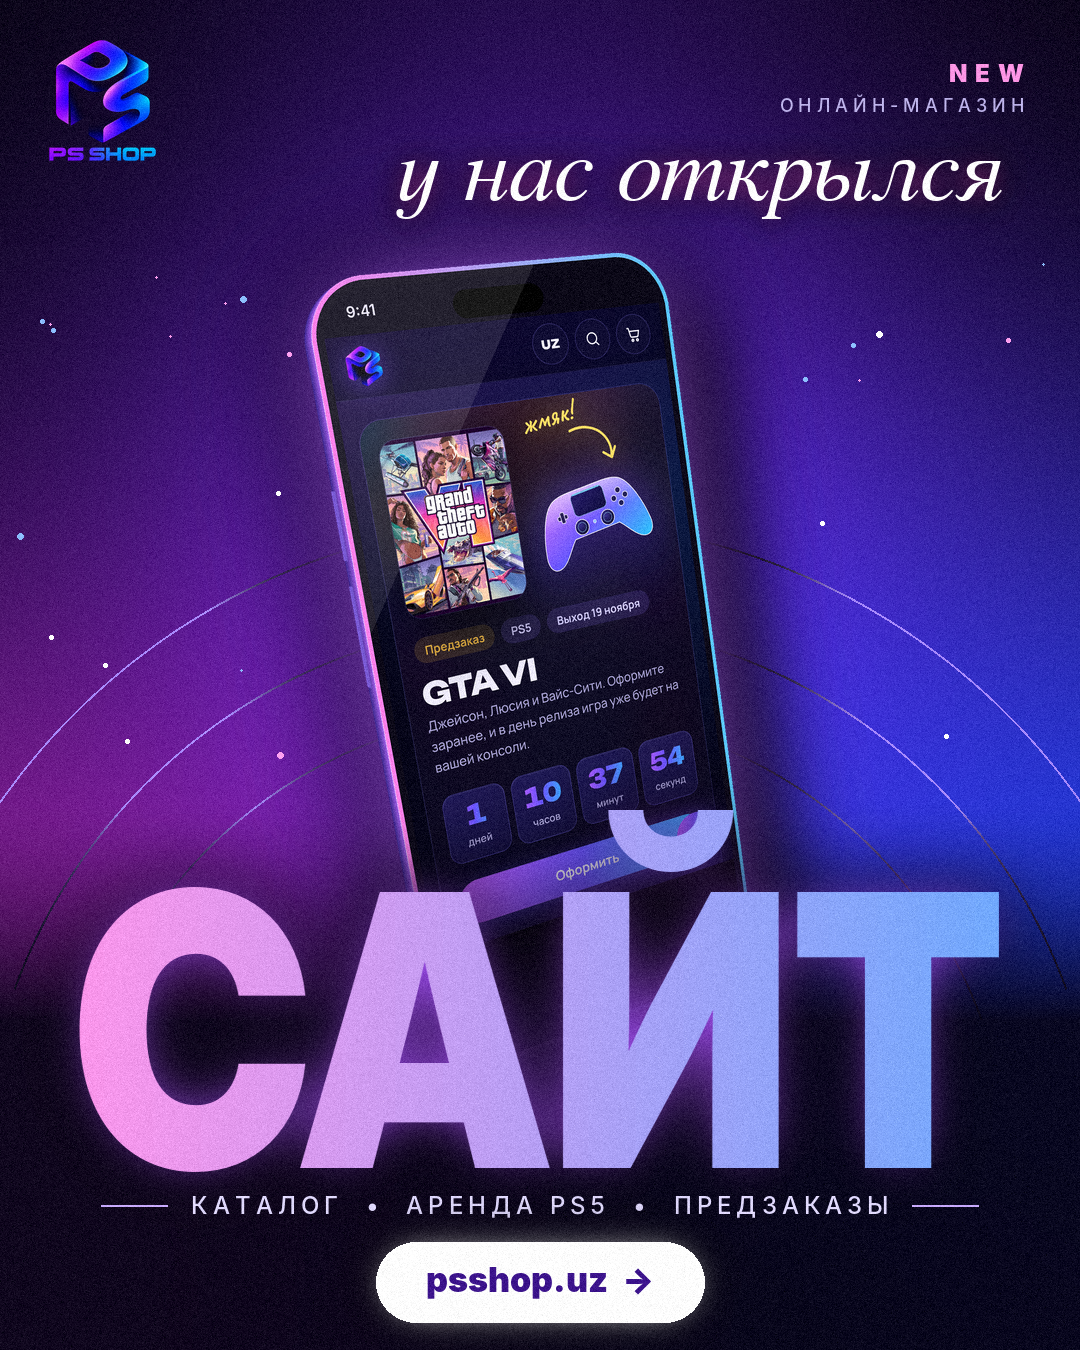
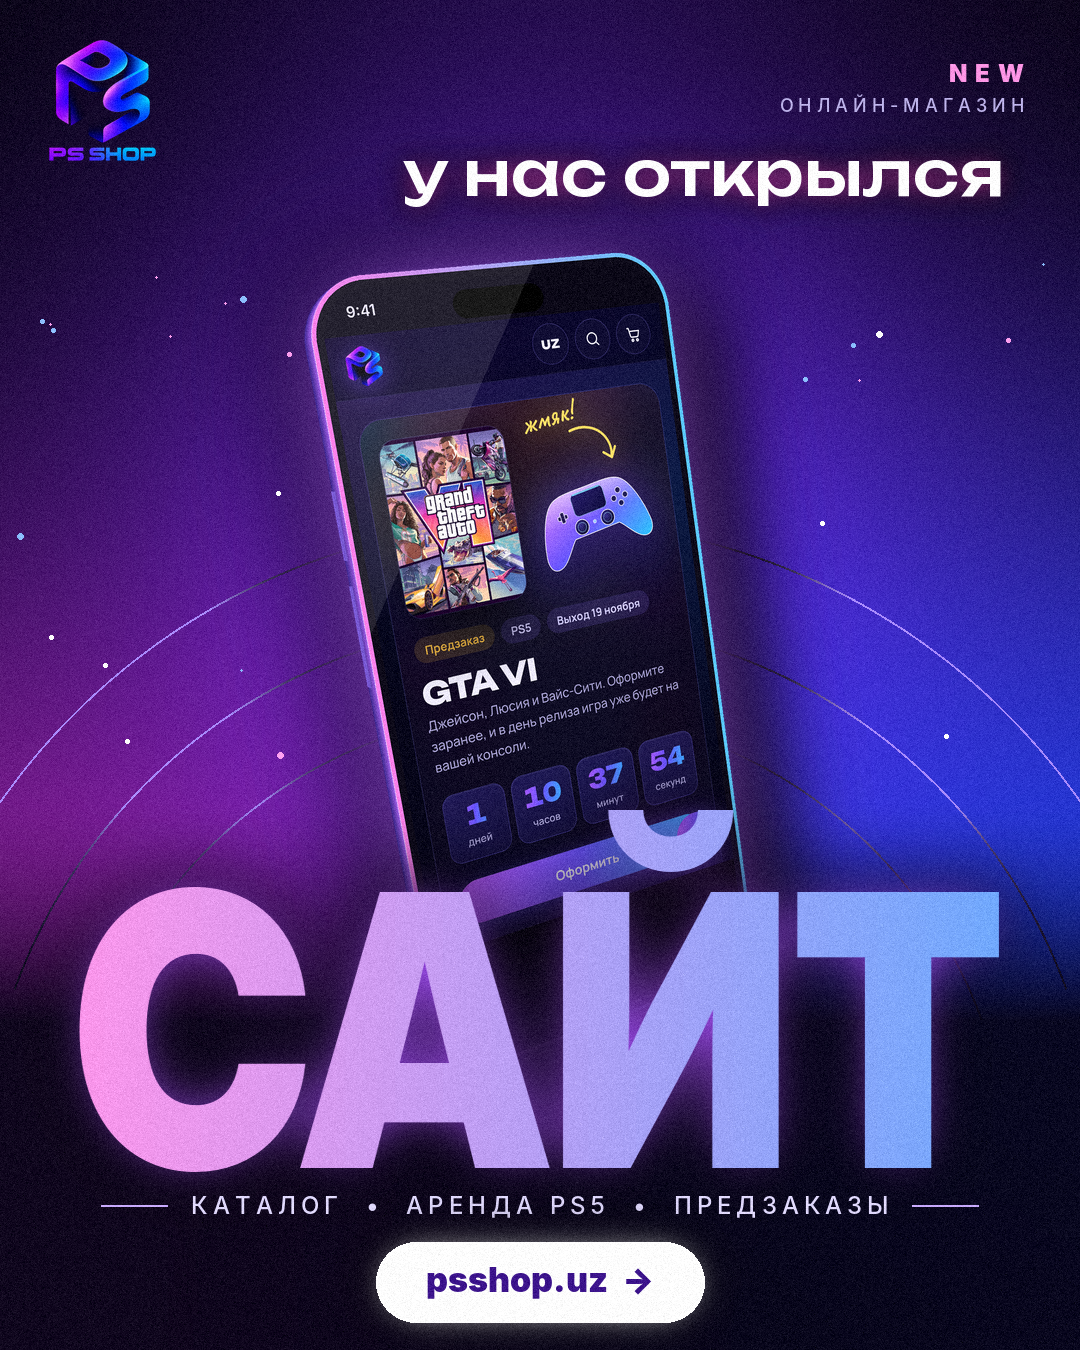
Пост «САЙТ»: строка «у нас открылся» шрифтом Unbounded, FreeSerif убран
Claude-Session: https://claude.ai/code/session_014Ko8ozEX2o5gHUgYNiyXBL

Changed region(s): [[0.3667, 0.0933, 0.9472, 0.1867]]

diff --git a/designer/scripts/post_site_phone3d.py b/designer/scripts/post_site_phone3d.py
@@ -112,7 +112,12 @@ big=grad(big,(255,150,235),(110,170,255))
 bx=(W-big.width)//2; by=800
 glow(bg,tint(big,(170,80,255)),(bx,by),30,1)
 bg.alpha_composite(big,(bx,by))
-ser=cond_text("у нас открылся",ImageFont.truetype(SERIF,92),1.0,(255,255,255,255))
+import os, sys; sys.path.insert(0,"scripts"); from psfx import font as pfont
+_k=os.environ.get("TOP_FONT","unbounded")  # шрифт строки «у нас открылся»
+_f={"freeserif":lambda:ImageFont.truetype(SERIF,92),"playfair":lambda:pfont("playfair",86,"SemiBold Italic"),
+    "cormorant":lambda:pfont("cormorant",100,"SemiBold Italic"),"unbounded":lambda:pfont("unbounded",62,"Medium"),
+    "manrope":lambda:pfont("manrope",72,"Bold")}[_k]()
+ser=cond_text("у нас открылся",_f,1.0,(255,255,255,255))
 sx,sy=W-56-ser.width,150
 glow(bg,tint(ser,(255,80,210)),(sx,sy),14,2); bg.alpha_composite(ser,(sx,sy))
 d=ImageDraw.Draw(bg)
@@ -141,4 +146,4 @@ for _ in range(45):
     if 300<x<780: continue
     d.ellipse((x-rr,y-rr,x+rr,y+rr),fill=random.choice([(255,160,240),(140,190,255),(255,255,255)])+(random.randint(60,190),))
 n=np.random.normal(0,6,(H,W,1)); out=np.clip(np.array(bg.convert("RGB")).astype(float)+n,0,255)
-Image.fromarray(out.astype("uint8")).save("output/ps_shop_site_phone3d.png"); print(by,yl)
+Image.fromarray(out.astype("uint8")).save(os.environ.get("OUT","output/ps_shop_site_phone3d.png")); print(by,yl)

diff --git a/designer/scripts/psfx.py b/designer/scripts/psfx.py
@@ -25,8 +25,7 @@ FONTS = {
     "oswald":    ("Oswald[wght].ttf", "Bold"),
     "montserrat":("Montserrat[wght].ttf", "Black"),
     # fashion-курсив
-    "serif":     ("/usr/share/fonts/truetype/freefont/FreeSerifItalic.ttf", None),
-    "playfair":  ("PlayfairDisplay-Italic[wght].ttf", "Italic"),
+        "playfair":  ("PlayfairDisplay-Italic[wght].ttf", "Italic"),
     "cormorant": ("Cormorant-Italic[wght].ttf", "Medium Italic"),
     # мелкие строки с разрядкой, кнопки
     "text":      (INTER + "Inter-Medium.otf", None),

diff --git a/designer/CLAUDE.md b/designer/CLAUDE.md
@@ -10,6 +10,7 @@
 - К каждому посту обязательно делай картинку. Перед картинкой — 3 ключевых вопроса по одному.
 - Креатив обязателен: однотипных картинок быть не должно.
 - Стиль владельца: **3D-объекты + плоский 2D-текст**. Предметы объёмные (толщина, перспектива, тени, отражения), текст плоский, чёткий, без 3D-эффектов.
+- **Шрифты:** FreeSerif Italic владельцу не нравится, не использовать. Для подзаголовка-пары владелец выбрал Unbounded (Medium, строчные).
 - **Логотип не трогать:** только слева сверху, как есть. Не делать из куба логотипа 3D-декор и героя.
 - Для темы «сайт» 3D-героем делать объёмный телефон с открытым psshop.uz (`scripts/post_site_phone3d.py`).
 - Владельцу отправлять **только итоговую картинку**. Черновики проверять в уменьшенном виде и не показывать.
@@ -17,7 +18,7 @@
 ## Структура папки
 - `assets/logo.png` — логотип PS SHOP (куб с P и S + надпись, тёмный фон).
 - `assets/covers/` — обложки и арты игр от владельца (`название-игры.jpg`). Брать картинки игр только отсюда или из присланных скринов.
-- `assets/fonts/` — шрифты с кириллицей (лицензия OFL, образцы в `specimen.png`): Unbounded, Russo One, Oswald, Montserrat, Rubik Mono One (огромные слова); Playfair Display Italic, Cormorant Italic (fashion-курсив); Manrope (мелкий текст); Press Start 2P, Rubik Glitch (ретро и глитч). Плюс системные Inter / Inter Display и FreeSerif Italic.
+- `assets/fonts/` — шрифты с кириллицей (лицензия OFL, образцы в `specimen.png`): Unbounded, Russo One, Oswald, Montserrat, Rubik Mono One (огромные слова); Playfair Display Italic, Cormorant Italic (fashion-курсив); Manrope (мелкий текст); Press Start 2P, Rubik Glitch (ретро и глитч). Плюс системные Inter / Inter Display.
 - `assets/shots/` — скриншоты psshop.uz (телефон `m_*.png`, компьютер `d_*.png`). Переснимать Playwright'ом, если сайт поменялся.
 - `scripts/psfx.py` — **общая библиотека приёмов, начинать любую картинку с неё**: `import sys; sys.path.insert(0,"scripts"); from psfx import *`.
   Шрифты `font("unbounded",200)`; фон `neon_bg()`, `diagonal_split`, `retro_grid`, `sparks`, `grain`; текст `text_img` (сжатие, разрядка), `spaced`, `lined`, `highlight`, `cta_pill`, `chroma_shift`; шапка `header()` (логотип слева сверху без изменений); 3D: `Cam`, `phone3d`, `card3d`, `box3d`, `reflection`, `shadow`, `glow`, `pocket`; проверка `check({...})` и `preview()` для самопроверки.

diff --git a/designer/journal.md b/designer/journal.md
@@ -4,7 +4,7 @@
 
 | Дата | Тема | Формат | Схема | Герой (3D) | Шрифты | Палитра | Приёмы | Скрипт | Отзыв владельца |
 |---|---|---|---|---|---|---|---|---|---|
-| 2026-11-17 | У нас открылся сайт | пост | A. Выход из слова | 3D-телефон с psshop.uz | Inter Display Black + FreeSerif Italic | тёмный неон | огромное слово, курсив-пара, строка с разрядкой и линиями, CTA-пилюля, дуги, искры | post_site_phone3d.py | «Отлично». Хочет 3D-объекты + 2D-текст; логотип не трогать |
+| 2026-11-17 | У нас открылся сайт | пост | A. Выход из слова | 3D-телефон с psshop.uz | Inter Display Black + Unbounded Medium | тёмный неон | огромное слово, строка-пара, строка с разрядкой и линиями, CTA-пилюля, дуги, искры | post_site_phone3d.py | «Отлично». Хочет 3D-объекты + 2D-текст; логотип не трогать; FreeSerif-курсив не нравится → выбрал Unbounded |
 | 2026-11-17 | У нас открылся сайт (черновик) | пост | C. Веер | скриншоты сайта пластинами | Inter Display Black + FreeSerif Italic | тёмный неон | веер, выход из слова | post_site_fan.py | понравился, но нужен телефон; кубы из логотипа — нельзя |
 | до 2026-11 | Сайт открылся | сторис | B. Слово за объектом | телефон (плоский мокап) | Inter Display Black + FreeSerif Italic | тёмный неон | ретро-сетка, стеклянные плашки, курсор | story_site_phone.py | удачная |
 | до 2026-11 | Живой таймер до релиза GTA VI | пост | B. Слово за объектом | арт игры карточкой | Inter Display Black + FreeSerif Italic | тёмный неон | fashion-пара, градиент, CTA | post_timer_fashion.py | понравилась больше всего |

diff --git a/designer/.claude/skills/psshop-telegram-posts/SKILL.md b/designer/.claude/skills/psshop-telegram-posts/SKILL.md
@@ -103,7 +103,7 @@ PNG 1080×1350 (пост) или 1080×1920 (сторис). Собираются
 - **Тонкая строка с разрядкой** и линиями по бокам для спокойного подзаголовка («У НАС НА САЙТЕ», «ЗАХОДИ ПЕРВЫМ»).
 - **Плашки-выделения:** фраза в цветном прямоугольнике, ключевое слово жирное.
 - **Разбитое слово** стопкой, глитч/рваные края, кистевой ретро-шрифт для 80-х.
-- Максимум 2 шрифта на картинку. Нужна кириллица. Шрифты — в `assets/fonts/` (Unbounded, Russo One, Oswald, Montserrat, Rubik Mono One, Playfair/Cormorant Italic, Manrope, Press Start 2P, Rubik Glitch) и системные Inter Display + FreeSerif Italic. Образцы: `assets/fonts/specimen.png`.
+- Максимум 2 шрифта на картинку. Нужна кириллица. Шрифты — в `assets/fonts/` (Unbounded, Russo One, Oswald, Montserrat, Rubik Mono One, Playfair/Cormorant Italic, Manrope, Press Start 2P, Rubik Glitch) и системный Inter Display. FreeSerif Italic владельцу не нравится — не использовать. Образцы: `assets/fonts/specimen.png`.
 
 ## Техника
 - Начинать с библиотеки `scripts/psfx.py` (фон, текст, 3D-телефон и карточки, проверка наложений).
